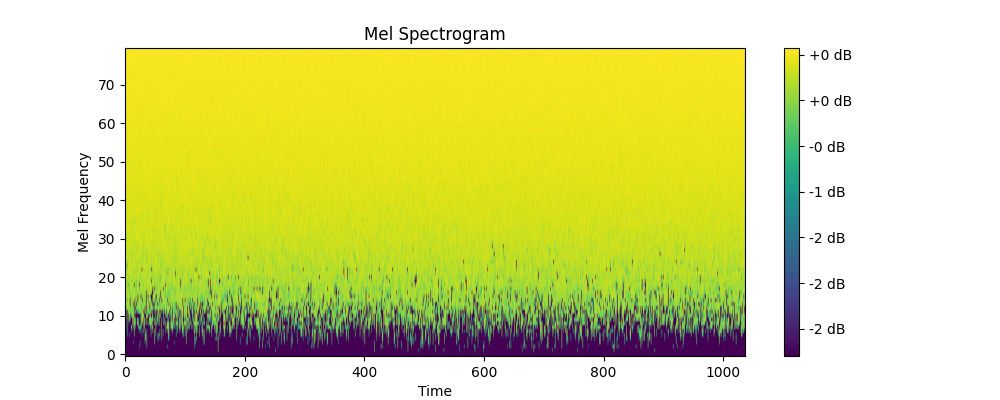
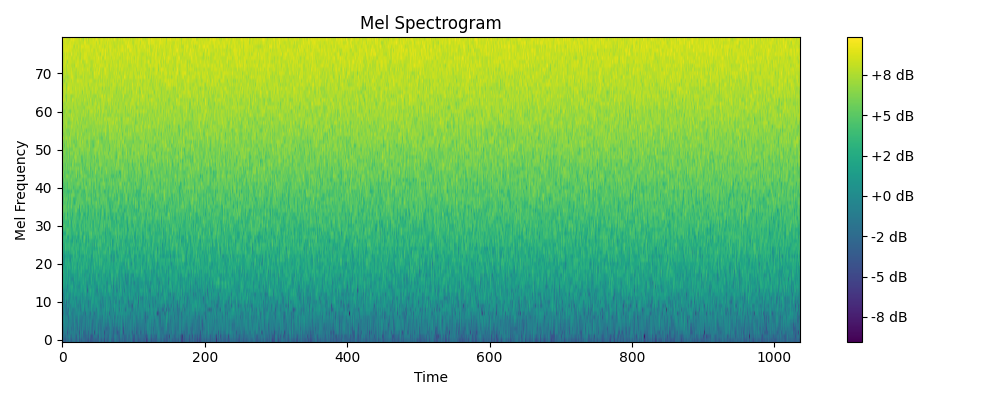
.

diff --git a/mel_filter_bank_block.py b/mel_filter_bank_block.py
@@ -35,6 +35,7 @@ class MelFilterBank:
         # Convert to mono if stereo
         if waveform.shape[0] > 1:
             waveform = torch.mean(waveform, dim=0, keepdim=True)
+            print(f"Converted to mono: {waveform.shape}")
         
         # Debug: Print resampled waveform stats
         if os.environ.get("DEBUG"):
@@ -53,50 +54,10 @@ class MelFilterBank:
 
         # Transpose the mel spectrogram to match the expected shape [1, 80, T]
         # Current shape is [T, 80], where T is the time dimension (1037 in this example)
-        mel_spec = mel_spec.transpose(0, 1).unsqueeze(0)
-        
+        mel_spec = mel_spec.transpose(0, 1)
+        mel_spec = mel_spec.unsqueeze(0)
         print(f"Mel spec shape: {mel_spec.shape}")
-        if os.environ.get("DEBUG"):
-            print(f"Transposed mel spec shape: {mel_spec.shape}")
 
-        
-        # Debug: Print raw mel spectrogram stats
-        if os.environ.get("DEBUG"):
-            print(f"Raw mel spectrogram stats - mean: {mel_spec.mean().item():.4f}, std: {mel_spec.std().item():.4f}, min: {mel_spec.min().item():.4f}, max: {mel_spec.max().item():.4f}")
-        
-        # Add small epsilon to prevent log(0)
-        mel_spec = mel_spec + 1e-6
-        
-        # Check for NaN or Inf values
-        if os.environ.get("DEBUG") and (torch.isnan(mel_spec).any() or torch.isinf(mel_spec).any()):
-            print("Warning: NaN or Inf values detected in mel spectrogram!")
-            print(f"NaN count: {torch.isnan(mel_spec).sum().item()}")
-            print(f"Inf count: {torch.isinf(mel_spec).sum().item()}")
-            # Replace NaN and Inf with small values
-            mel_spec = torch.nan_to_num(mel_spec, nan=1e-6, posinf=1e6, neginf=-1e6)
-        
-        # Convert to log scale with numerical stability
-        mel_spec = torch.log(mel_spec)
-        
-        # Debug: Print log mel spectrogram stats
-        if os.environ.get("DEBUG"):
-            print(f"Log mel spectrogram stats - mean: {mel_spec.mean().item():.4f}, std: {mel_spec.std().item():.4f}, min: {mel_spec.min().item():.4f}, max: {mel_spec.max().item():.4f}")
-        
-        # Check for NaN or Inf values after log
-        if torch.isnan(mel_spec).any() or torch.isinf(mel_spec).any():
-            print("Warning: NaN or Inf values detected after log transform!")
-            print(f"NaN count: {torch.isnan(mel_spec).sum().item()}")
-            print(f"Inf count: {torch.isinf(mel_spec).sum().item()}")
-            # Replace NaN and Inf with small values
-            mel_spec = torch.nan_to_num(mel_spec, nan=-10.0, posinf=10.0, neginf=-10.0)
-        
-        # Normalize to have zero mean and unit variance
-        mel_spec = (mel_spec - mel_spec.mean()) / (mel_spec.std() + 1e-6)
-        
-        # Final debug print
-        if os.environ.get("DEBUG"):
-            print(f"Final mel spectrogram stats - mean: {mel_spec.mean().item():.4f}, std: {mel_spec.std().item():.4f}, min: {mel_spec.min().item():.4f}, max: {mel_spec.max().item():.4f}")
-        
         return mel_spec
     
     def visualize(self, mel_spec: torch.Tensor, save_path: str = None):
@@ -109,6 +70,7 @@ class MelFilterBank:
         plt.title('Mel Spectrogram')
         plt.xlabel('Time')
         plt.ylabel('Mel Frequency')
+        plt.tight_layout()
         
         if save_path:
             plt.savefig(save_path)

diff --git a/audio_encoder.py b/audio_encoder.py
@@ -5,7 +5,7 @@ import os
 from collections import OrderedDict
 
 class AudioEncoder(nn.Module):
-    def __init__(self, input_dim=80, hidden_dim=512, num_heads=8, num_layers=12, text_embed_dim=4096):
+    def __init__(self, input_dim=80, hidden_dim=512, num_heads=8, num_layers=24, text_embed_dim=4096):
         super().__init__()
         
         # CNN downsampling layers
